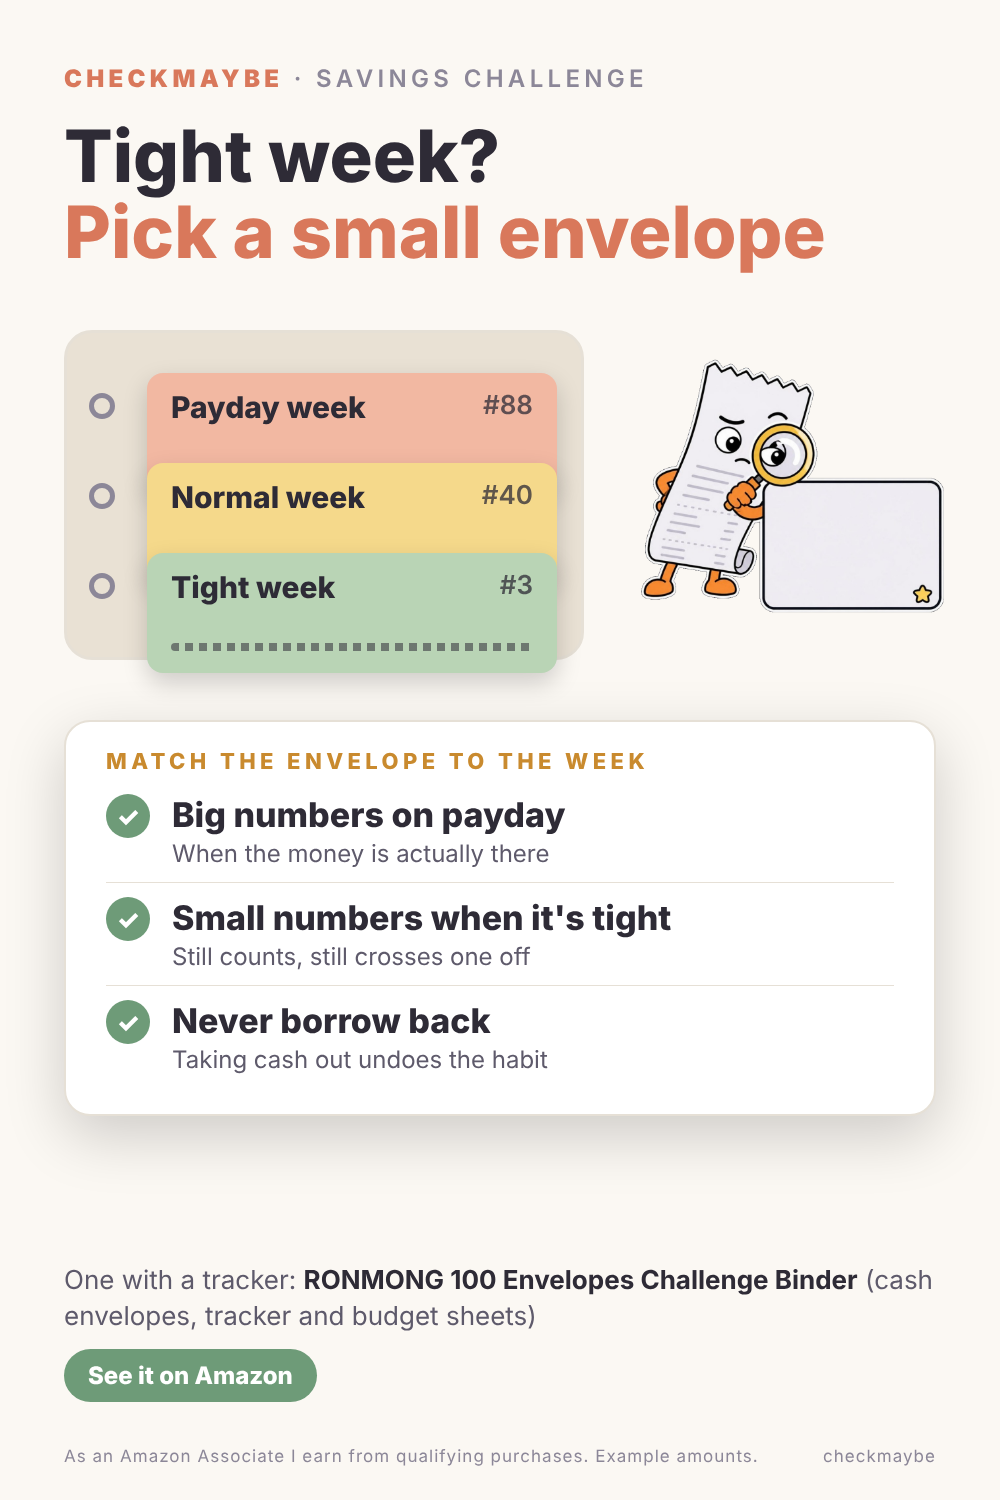
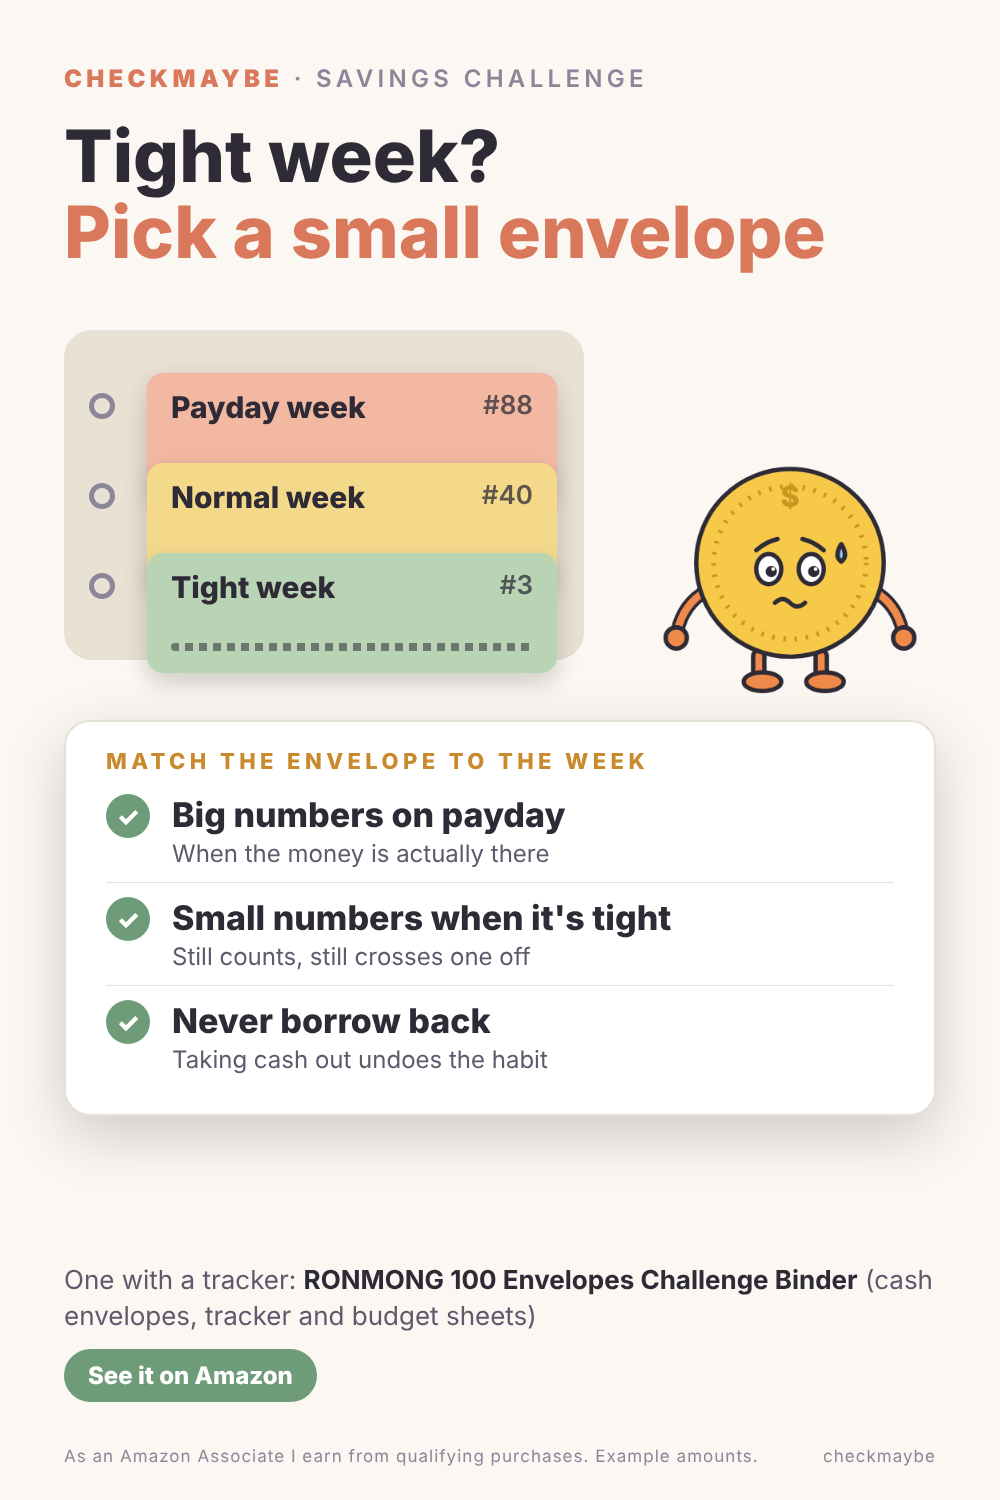
Pins not yet posted (az2-5, az8-10, az13-15): swap the receipt for Stash, Penny, Dot; AI-modified OFF for those
Claude-Session: https://claude.ai/code/session_012dBA7SqmaqwCRXrXc8dwP2

Changed region(s): [[0.62, 0.2453, 0.961, 0.46]]

diff --git a/content/pinterest/2026-11/build_pins_v15_amazon.py b/content/pinterest/2026-11/build_pins_v15_amazon.py
@@ -12,12 +12,15 @@ from PIL import Image, ImageDraw
 HERE = os.path.dirname(os.path.abspath(__file__))
 ROOT = os.path.abspath(os.path.join(HERE, "..", "..", ".."))
 A2, A3 = f"{ROOT}/content/2026-10-comic-02/art", f"{ROOT}/content/2026-10-comic-03/art"
+NEW = f"{ROOT}/content/mascots-v2/poses"  # Stash, Penny, Dot (SVG, no AI); used from 2026-11-21 for pins not yet posted
 TMP = tempfile.mkdtemp(prefix="cm-pins-v15-")
 OUT = f"{HERE}/pins"; os.makedirs(OUT, exist_ok=True)
 
 
 def cutout(src, name):
     """Key out the dark background connected to the edges, for the light pins."""
+    if src.endswith(".png"):
+        return src
     im = Image.open(src).convert("RGB"); key = im.copy()
     for xy in [(0, 0), (im.width - 1, 0), (0, im.height - 1), (im.width - 1, im.height - 1)]:
         ImageDraw.floodfill(key, xy, (255, 0, 255), thresh=70)
@@ -46,7 +49,7 @@ PINS = [
                ("One envelope per category", "Groceries, gas, fun money: decide before you spend"),
                ("Small enough to carry", "If it stays home, you'll pay by card instead")],
          pick='One that has the first two: <b>SKYDUE Budget Binder</b> (zipper envelopes, cash envelopes, expense sheets)'),
-    dict(id="az2", themes=["light"], art=f"{A3}/check.jpg", kicker="Cash stuffing for beginners",
+    dict(id="az2", themes=["light"], art=f"{NEW}/stash-happy.png", kicker="Cash stuffing for beginners",
          h1="New to cash stuffing?<br><em>Start with 3 envelopes</em>",
          envs=[("Groceries", "$350"), ("Gas", "$120"), ("Eating out", "$60")],
          label="START SMALL", steps=False,
@@ -55,7 +58,7 @@ PINS = [
                ("Only spend what's inside", "Empty envelope means wait until next month"),
                ("Add more later", "Once three feel easy, add gifts or personal care")],
          pick='A binder for it: <b>NICOOTH Budget Binder A6</b> (zipper cash envelopes)'),
-    dict(id="az3", themes=["light"], art=f"{A2}/asterisk.jpg", kicker="Card spending",
+    dict(id="az3", themes=["light"], art=f"{NEW}/stash-surprised.png", kicker="Card spending",
          h1="Card bill higher<br><em>than you expected?</em>",
          envs=[("Groceries", "$400"), ("Takeout", "$80"), ("Shopping", "$100")],
          label="TRY ONE MONTH OF CASH", steps=False,
@@ -64,7 +67,7 @@ PINS = [
                ("Pay that category with cash only", "You can see what's left without an app"),
                ("Compare at the end of the month", "Same month on a card vs in cash")],
          pick='Envelopes with labels: <b>Antner A6 Budget Binder</b> (zipper cash envelopes and labels)'),
-    dict(id="az4", themes=["light"], art=f"{A3}/calc.jpg", kicker="Payday routine",
+    dict(id="az4", themes=["light"], art=f"{NEW}/stash-thumbs.png", kicker="Payday routine",
          h1="Payday routine:<br><em>fill your envelopes</em>",
          envs=[("Groceries", "$200"), ("Gas", "$80"), ("Fun money", "$40")],
          label="EVERY PAYDAY, 4 STEPS", steps=True,
@@ -73,7 +76,7 @@ PINS = [
                ("Withdraw that total in cash", "Ask for small bills"),
                ("Fill each envelope and note it", "Amount in, date, what's left last time")],
          pick='A binder with a calculator: <b>Nefeeko Budget Binder</b> (zipper envelopes, cash envelopes, calculator)'),
-    dict(id="az5", themes=["light"], art=f"{A2}/happy.jpg", kicker="Cash envelope rules",
+    dict(id="az5", themes=["light"], art=f"{NEW}/stash-worried.png", kicker="Cash envelope rules",
          h1="Envelope empty?<br><em>That category is done</em>",
          envs=[("Groceries", "$12 left"), ("Gas", "$0 left"), ("Fun money", "$25 left")],
          label="3 RULES THAT MAKE IT WORK", steps=False,
@@ -98,7 +101,7 @@ PINS = [
                ("Envelopes 1 to 100", "$5,050 when they're all filled"),
                ("Pick the one you'll finish", "A finished small challenge beats a dropped big one")],
          pick='One with a tracker: <b>RONMONG 100 Envelopes Challenge Binder</b> (cash envelopes, tracker and budget sheets)'),
-    dict(id="az8", slug="savings-challenge", themes=["light"], art=f"{A2}/check.jpg", kicker="100 envelope challenge",
+    dict(id="az8", slug="savings-challenge", themes=["light"], art=f"{NEW}/penny-happy.png", kicker="100 envelope challenge",
          h1="One envelope a day,<br><em>100 days</em>",
          envs=[("Day 1 · #63", "$63"), ("Day 2 · #8", "$8"), ("Day 3 · #21", "$21")],
          label="HOW TO RUN IT", steps=True,
@@ -106,7 +109,7 @@ PINS = [
                ("Put in that many dollars", "Cash goes straight into the envelope"),
                ("Cross it off the tracker", "So you can see what's left")],
          pick='A book for it: <b>APMFHO 100 Days Money Saving Challenge</b> (100 envelopes, save $5,050 or $10,000)'),
-    dict(id="az9", slug="savings-challenge", themes=["light"], art=f"{A3}/happy.jpg", kicker="New year savings",
+    dict(id="az9", slug="savings-challenge", themes=["light"], art=f"{NEW}/penny-thumbs.png", kicker="New year savings",
          h1="Start January 1,<br><em>done by April 10</em>",
          envs=[("Jan 1", "Day 1"), ("Feb 28", "Day 59"), ("Apr 10", "Day 100")],
          label="100 DAYS IN 2027", steps=False,
@@ -114,7 +117,7 @@ PINS = [
                ("Miss a day? Keep going", "Just finish later than April 10"),
                ("$5,050 at the end", "If all 100 are filled")],
          pick='A book for it: <b>APMFHO 100 Days Money Saving Challenge</b> (100 envelopes, save $5,050 or $10,000)'),
-    dict(id="az10", slug="savings-challenge", themes=["light"], art=f"{A2}/asterisk.jpg", kicker="Savings challenge",
+    dict(id="az10", slug="savings-challenge", themes=["light"], art=f"{NEW}/penny-worried.png", kicker="Savings challenge",
          h1="Tight week?<br><em>Pick a small envelope</em>",
          envs=[("Payday week", "#88"), ("Normal week", "#40"), ("Tight week", "#3")],
          label="MATCH THE ENVELOPE TO THE WEEK", steps=False,
@@ -139,7 +142,7 @@ PINS = [
                ("Mark the paydays too", "See which bills land before payday"),
                ("Check it every Sunday", "So a due date never sneaks up on you")],
          pick='One with bill pockets: <b>SOLIGT Budget Planner Monthly Bill Organizer</b> (undated, 12 pockets)'),
-    dict(id="az13", slug="budget-planner", themes=["light"], art=f"{A3}/calc.jpg", kicker="January budget reset",
+    dict(id="az13", slug="budget-planner", themes=["light"], art=f"{NEW}/dot-happy.png", kicker="January budget reset",
          h1="January budget reset:<br><em>4 numbers first</em>",
          envs=[("Take-home pay", "$3,800"), ("Fixed bills", "$1,950"), ("Debt minimums", "$680")],
          label="WRITE THESE BEFORE ANYTHING ELSE", steps=True,
@@ -148,7 +151,7 @@ PINS = [
                ("Debt minimums", "Every card and loan"),
                ("What's left", "That's the budget for everything else")],
          pick='An undated one: <b>Taja Budget Planner</b> (undated budget book with expense tracker)'),
-    dict(id="az14", slug="budget-planner", themes=["light"], art=f"{A2}/tag.jpg", kicker="Bill organizer",
+    dict(id="az14", slug="budget-planner", themes=["light"], art=f"{NEW}/dot-surprised.png", kicker="Bill organizer",
          h1="Paper bills piling up?<br><em>One pocket a month</em>",
          envs=[("January", "pocket 1"), ("February", "pocket 2"), ("March", "pocket 3")],
          label="KEEP IT SIMPLE", steps=False,
@@ -156,7 +159,7 @@ PINS = [
                ("Need it later? It's by month", "Taxes, returns, disputes"),
                ("New year, empty pockets", "Box last year's and start again")],
          pick='One with 12 pockets: <b>SOLIGT Budget Planner Monthly Bill Organizer</b> (undated, 12 pockets)'),
-    dict(id="az15", slug="budget-planner", themes=["light"], art=f"{A3}/gifts.jpg", kicker="Weekly money check",
+    dict(id="az15", slug="budget-planner", themes=["light"], art=f"{NEW}/dot-thumbs.png", kicker="Weekly money check",
          h1="A 10-minute<br><em>weekly money check</em>",
          envs=[("Spent this week", "$412"), ("Left this month", "$860"), ("Bills next week", "$185")],
          label="EVERY SUNDAY", steps=True,
@@ -196,7 +199,7 @@ h1{{position:absolute;left:64px;right:64px;top:118px;font-size:72px;font-weight:
         f'<div class="row"><div class="c">{i + 1 if p["steps"] else "✓"}</div><div><div class="q">{q}</div><div class="s">{s}</div></div></div>'
         for i, (q, s) in enumerate(p["rows"]))
     body = (f'<div class="k"><b>CheckMaybe</b> · {p["kicker"]}</div><h1>{p["h1"]}</h1>'
-            f'<div class="binder">{rings}{env_html}</div><img class="pose" src="file://{mascot}">'
+            f'<div class="binder">{rings}{env_html}</div><img class="pose" src="file://{mascot}"' + (' style="right:10px;top:300px;width:400px"' if mascot.endswith(".png") and "/mascots-v2/" in mascot else "") + '>'
             f'<div class="card"><div class="lab">{p["label"]}</div>{rows_html}</div>'
             f'<div class="pick">{p["pick"]}<br><span class="tag">See it on Amazon</span></div>'
             f'<div class="foot"><span>As an Amazon Associate I earn from qualifying purchases. Example amounts.</span><span>checkmaybe</span></div>')

diff --git a/content/pinterest/2026-11/pins-v15-amazon.md b/content/pinterest/2026-11/pins-v15-amazon.md
@@ -1,7 +1,7 @@
 # v15 Amazon pins: A6 budget binders (2026-11-20)
 
 Built by `build_pins_v15_amazon.py` (images in `pins/`). Light look (J 2026-11-20); az1 also has a dark version for an A/B test.
-Advanced settings: Allow comments ON · Show similar products OFF · Mark as AI-modified ON (receipt mascot is Canva AI art; founder rule 2026-10-24 in content/pinterest/2026-10/pins.md) · Features AI-generated person OFF.
+Advanced settings: Allow comments ON · Show similar products OFF · Features AI-generated person OFF · Mark as AI-modified: ON for az1 (dark and light), az6, az7, az11, az12 (receipt mascot, Canva AI; already posted days 1 and 2); OFF for az2-az5, az8-az10, az13-az15 (re-rendered 2026-11-21 with the new SVG mascots Stash, Penny, Dot, no AI; copy and links unchanged).
 Rules: no Amazon product photos; each product line uses only features from that listing's title; checklists are general tips; disclosure on the image and in every description. Board: a new board "Cash Stuffing & Budget Binders" (or Pay Later & Budgeting Tips).
 Before posting each pin, J opens the product page (US delivery address, e.g. ZIP 10001), checks 4.5+ stars, 1,000+ ratings, $15 to $40, Prime, and that the features named on the pin are on the page; then SiteStripe › Get Link › Short Link, and pastes the amzn.to link here. If a product fails the check, tell Claude to swap it (about 1 minute to re-render).
 Posting (J 2026-11-20): 2 to 3 pins a day to build volume. Mix product types each day; never two pins with the same link back to back. az1 dark and light go up the same week to compare outbound clicks.
